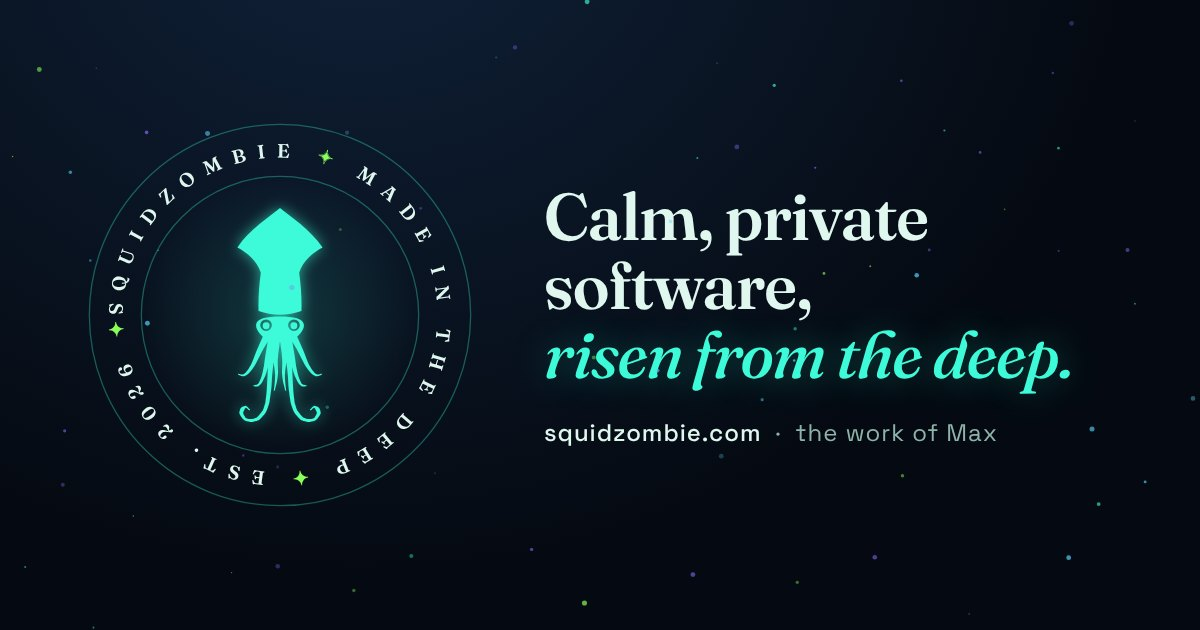
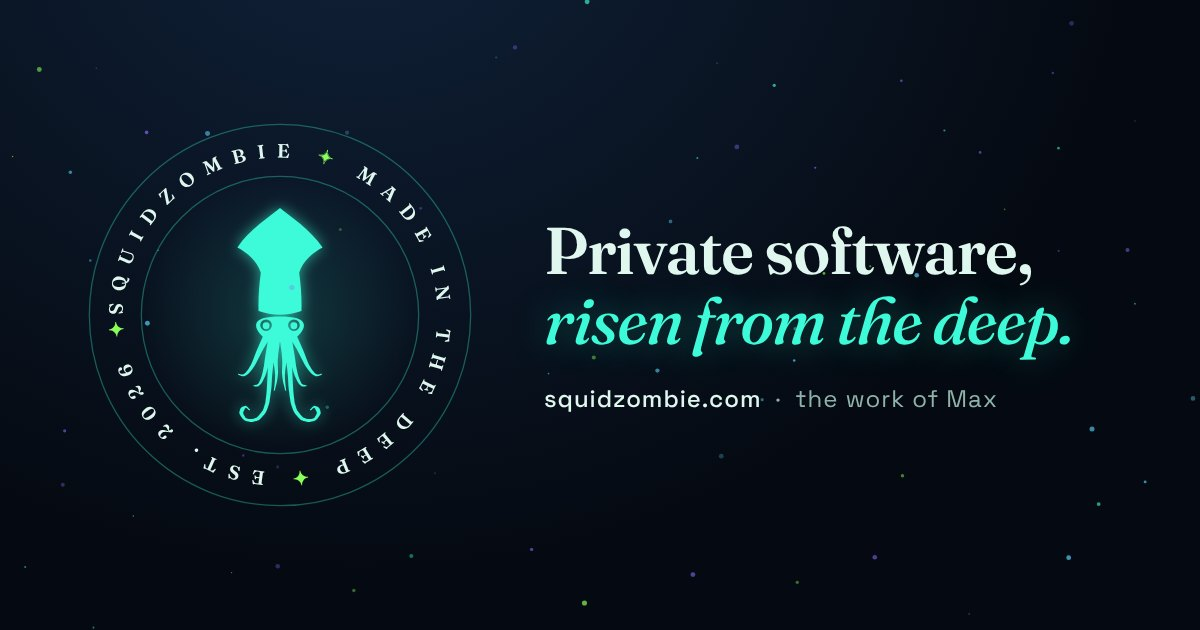
Drop "calm" from the homepage headline
The headline, page title, share title, share card and README now read
"Private software, risen from the deep."

Claude-Session: https://claude.ai/code/session_01CeofHCzb7VZc89VGDQPh1U

Changed region(s): [[0.4317, 0.3016, 0.8942, 0.7238], [0.4625, 0.3016, 0.4933, 0.3317], [0.4317, 0.3317, 0.4625, 0.3619]]

diff --git a/index.html b/index.html
@@ -3,9 +3,9 @@
 <head>
   <meta charset="UTF-8">
   <meta name="viewport" content="width=device-width, initial-scale=1.0">
-  <title>Squidzombie — calm, private software by Max</title>
+  <title>Squidzombie — private software by Max</title>
   <meta name="description" content="The portfolio of Max: Sable Budget, a calm, private budgeting app for iPhone; FlowTime, focus timers and timesheets for Windows and Mac; and Squid, a continuous local AI in progress.">
-  <meta property="og:title" content="Squidzombie — calm, private software by Max">
+  <meta property="og:title" content="Squidzombie — private software by Max">
   <meta property="og:description" content="Sable Budget for iPhone, FlowTime for focus and timesheets, and Squid, a continuous local AI in progress.">
   <meta property="og:image" content="https://squidzombie.com/og-card.jpg">
   <meta property="og:url" content="https://squidzombie.com/">
@@ -42,7 +42,7 @@
     <section class="home-hero">
       <div class="home-hero-text">
         <a class="now-pill" href="work/#squid"><span class="now-dot" aria-hidden="true"></span><span>Now building <b>Squid</b>, a continuous local AI</span></a>
-        <h1 class="home-title">Calm, private software, <em>risen from the deep.</em></h1>
+        <h1 class="home-title">Private software, <em>risen from the deep.</em></h1>
         <p class="home-lede">I’m Max. I design and build small, careful software for problems I actually have: a budget you keep by hand, timers that make starting easy, and an AI whose memory can’t be quietly rewritten. No accounts, no trackers, no guilt.</p>
         <div class="cta-row">
           <a class="btn btn-primary" href="#work">See the work</a>

diff --git a/README.md b/README.md
@@ -1,7 +1,7 @@
 # squidzombie.com
 
 Max's portfolio, built collaboratively with Claude.
-Calm, private software, risen from the deep. Expect it to mutate.
+Private software, risen from the deep. Expect it to mutate.
 
 ## Structure
 
